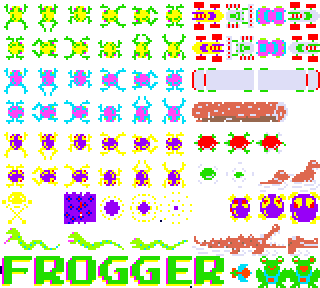
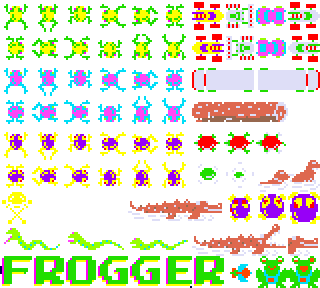
Added crocodile character

Changed region(s): [[0.1875, 0.6562, 0.7188, 0.7812]]

diff --git a/src/frogger.rs b/src/frogger.rs
@@ -1,6 +1,6 @@
 use std::any::Any;
 use std::cmp::{min, max};
-use std::ops::Add;
+use std::ops::{Add, Sub};
 
 use crate::actor::*;
 use crate::rand::*;
@@ -166,6 +166,53 @@ impl Actor for Turtle
     fn as_any(&self) -> &dyn Any { self }
 }
 
+pub struct Crocodile
+{
+    pos: Pt,
+    sprite: Pt,
+    size: Pt,
+    speed: i32,
+    counter: i32
+}
+impl Crocodile 
+{
+    pub fn new(pos: Pt, speed: i32) -> Crocodile
+    { 
+        Crocodile { pos: pos, sprite: pt(128, 189), size: pt(94, 32), speed: speed, counter: 0 }
+    }    
+}
+impl Actor for Crocodile 
+{
+    fn act(&mut self, arena: &mut ArenaStatus)
+    { 
+        let scr = arena.size();
+
+        self.pos.x = self.pos.x + self.speed;
+
+        if self.counter < 10  // Mouth close
+        {
+            self.sprite = pt(128, 189);
+            self.size = pt(94, 32);
+        }
+        else  // Mouth open
+        {
+            self.sprite = pt(192, 224);
+            self.size = pt(94, 32);
+        }
+
+        self.counter = (self.counter + 1) % 20;
+
+        self.pos.x = if self.pos.x > scr.x + 96 && self.speed > 0 { - 96 } else { self.pos.x };
+        self.pos.x = if self.pos.x < - 96 && self.speed < 0 { scr.x } else { self.pos.x };
+    }
+
+    fn pos(&self) -> Pt { self.pos }
+    fn size(&self) -> Pt { self.size }
+    fn sprite(&self) -> Option<Pt> { Some(self.sprite) }
+    fn alive(&self) -> bool { true }
+    fn as_any(&self) -> &dyn Any { self }
+}
+
 pub struct Water
 {
     pos: Pt,
@@ -274,6 +321,10 @@ impl Actor for Frog
                 {
                     self.in_water = false;
                     self.step.x = raft.speed;
+                }
+                else if let Some(_) = other.as_any().downcast_ref::<Crocodile>()
+                {
+                    self.lose_life();
                 }
                 else if let Some(turtle) = other.as_any().downcast_ref::<Turtle>()
                 {
@@ -404,13 +455,17 @@ impl FroggerGame
             let fourth_row_raft = Raft::new(pt(i * 200 + randint(0, 150), 183), -2);            
             let fifth_row_raft = Raft::new(pt(i * 200 + randint(0, 150), 215), 2);
 
-            // compute the turtle offset w.r.t. the prior raft.
+            // compute the turtle and crocodile offsets w.r.t. the relative prior raft.
             let turtle_offset = pt(second_row_raft.size.x + 50, 0);
+            let crocodile_offset = pt(fifth_row_raft.size.x + 50, 10);
 
             let second_row_turtle = Turtle::new(second_row_raft.pos.add(turtle_offset), -2);
             let fourth_row_turtle = Turtle::new(fourth_row_raft.pos.add(turtle_offset), -2);
 
+            let first_row_crocodile = Crocodile::new(first_row_raft.pos.sub(crocodile_offset), 2);
+
             arena.spawn(Box::new(first_row_raft));  // First row
+            arena.spawn(Box::new(first_row_crocodile)); // First row
             arena.spawn(Box::new(second_row_raft));  // Second row
             arena.spawn(Box::new(second_row_turtle));  // Second row
             arena.spawn(Box::new(third_row_raft));  // Third row
